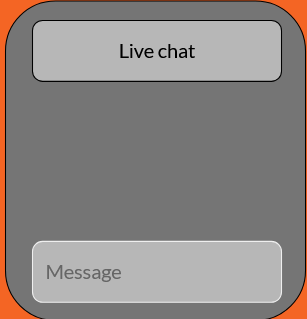
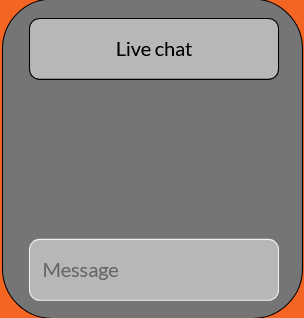
Fixed chat.png to load on website

diff --git a/support.html b/support.html
@@ -15,8 +15,8 @@
       IT/maintenance phone: 585-475-5000
     </a>
 
-    <a class="box">
-      <img src="../images/chat.png">
+    <a class="image">
+      <img src="images/chat.png">
     </a>
 
     <a class="box-link" href="support/mylife.html">
